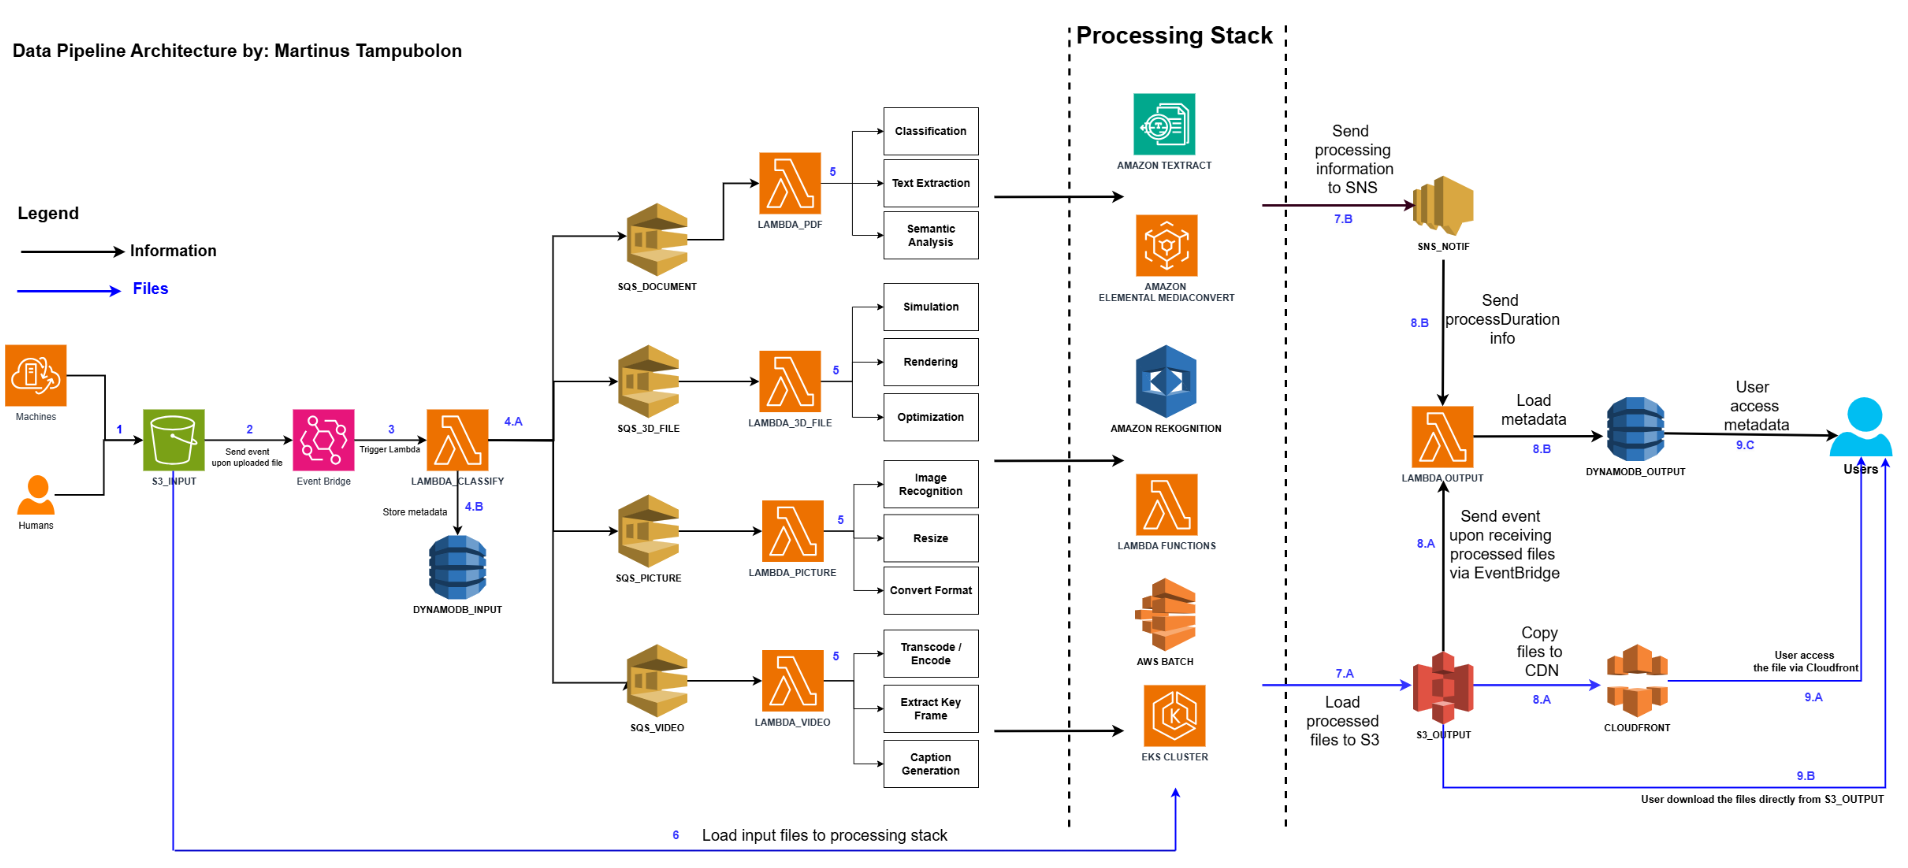
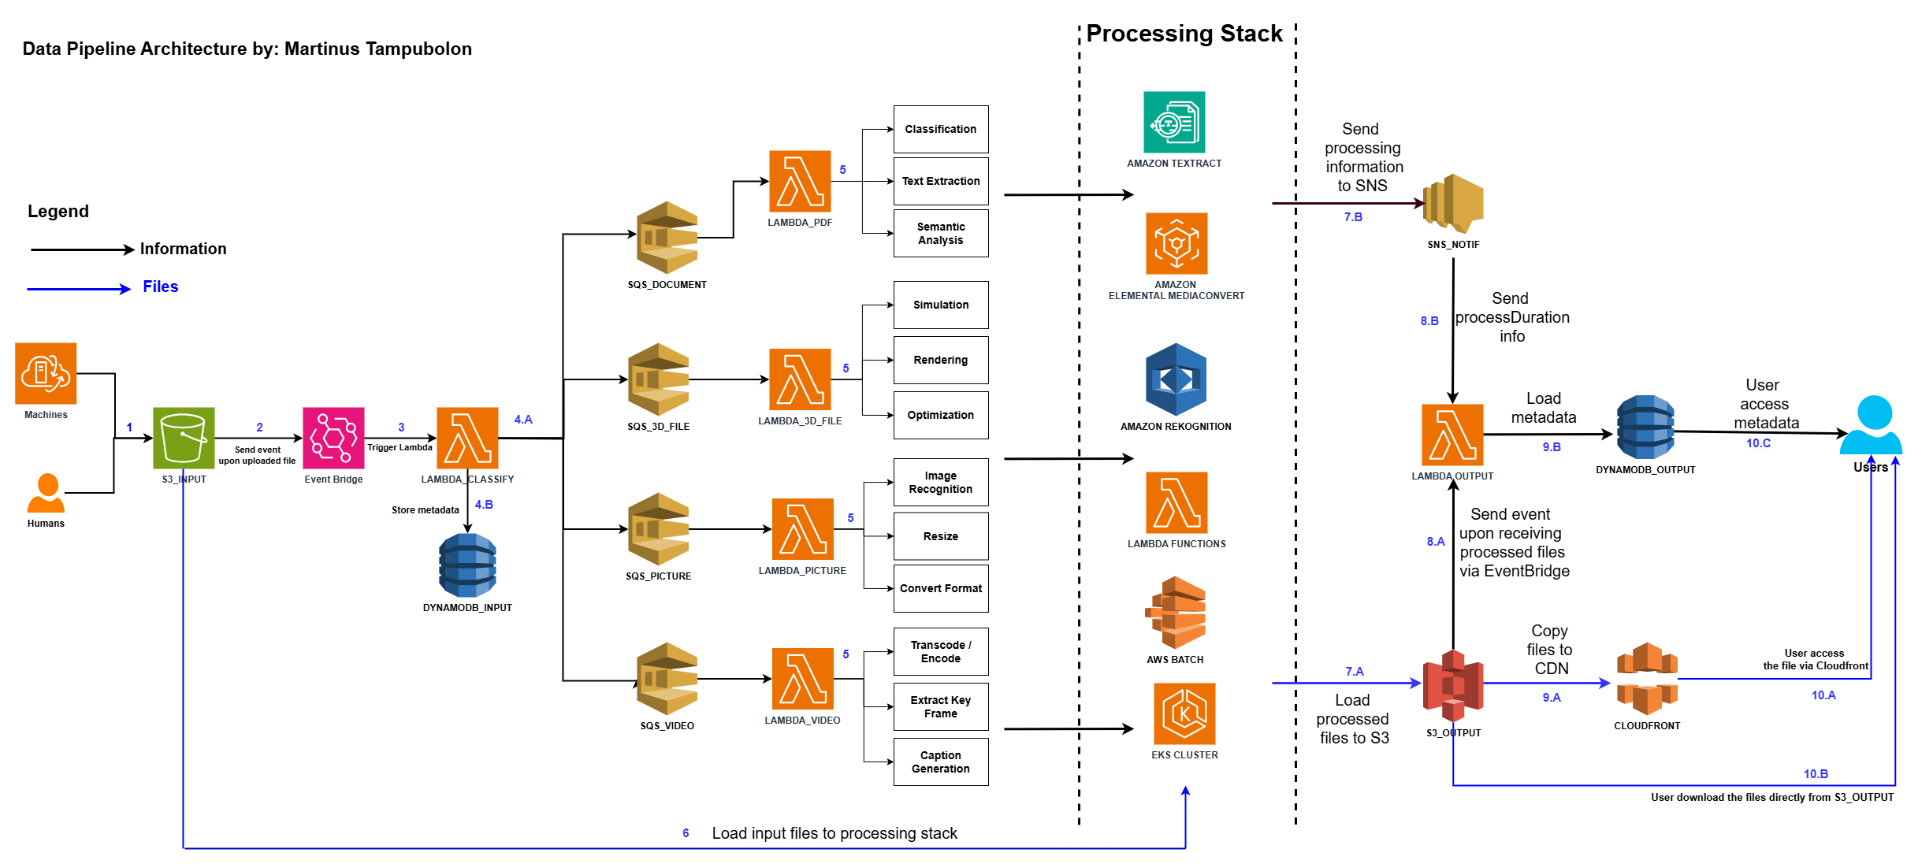
Update architecture diagram

diff --git a/README.md b/README.md
@@ -3,24 +3,21 @@ Data Pipeline on AWS
 
 ![Architecture Diagram](/Pictures/image.png)
 
-My architecture can be also see here: 
-[Architecture Diagram](https://viewer.diagrams.net/index.html?tags=%7B%7D&lightbox=1&highlight=0000ff&edit=https%3A%2F%2Fapp.diagrams.net%2F%23G1yeDgWl9MzScVbPJ5gEhNIkLw7Y2a9--B%23%257B%2522pageId%2522%253A%2522_bkS12qFeahq00A4bDJi%2522%257D&layers=1&nav=1&title=Jitera.drawio#R%3Cmxfile%3E%3Cdiagram%20name%3D%22Page-1%22%20id%3D%22_bkS12qFeahq00A4bDJi%22%3E7V1Zd%2BK4tv41Weueh7BsyxOPTKlKV6YTUqer6iXLYJG4C2zamAz166%2FkCVuSB0AeSJzTZxXIQgjtb2%2FtSVtnYLR6%2B%2BIa6%2Bdrx4TLM0kw387A%2BEySRB3I6B%2Fc8h606FLY8ORaZthp1zC1%2FsCwUQhbt5YJN6mOnuMsPWudbpw7tg3nXqrNcF3nNd1t4SzT37o2niDVMJ0bS7r1b8v0noNWCQB19%2BArtJ6eo69WlfAHroyod%2FhTNs%2BG6bwmmsDkDIxcx%2FGCV6u3EVzi1YsWJvjcRcbTeGYutL0yHxgrP%2B%2BfL9QZ%2FPLn68t2Yr9v%2Ftydh6O8GMtt%2BIvPJHWJxhua1gt6%2BYRfRk2zqGEKHi9v7r4%2FRA%2FQl87IzqgtNYS%2FBN57tLCb39Cb4wUS0NO1Y9meTylliP5Dv2MU%2FF9BXUe4pScpjEZWm0Y3inQ39I%2FI%2BgaykdWm0Y0i3Q2%2Fi2adbmS1aQo9Y%2FLTIuPTIvFp9B8YOltvadlwFPMEXuOFY3sjZ%2Bm4%2FvoD9L8LjJPhwlouE%2B3aYCCKKmrfeK7zGyaeLPw%2FjAxj8wzNcNgX6HoW4pcrYwaXd87G8izHRs9mjuc5q0SHwdJ6wg88Z41ajfDdHIEXoi8YPnurJXovhjMNJYEoRe9D5OCvNDbr4GctrDc8jyHirDV%2BuHp7wlKoZ7xu5J4LN87WncPLOZ7PEL0NXqV7bUAMziQnRWyB5g7fEk0hZ32Bzgp67jvqEku6kMtDOadEXP%2B6kxqaHjQ9J%2BRF1GaEcuopHnnHyehFyMx7MLakUSwHTSTawreO6z07T45tLCe71qHrbG0zJu2uz5WDieYT5x%2Foee8hdYyt56RJB98s70fi9U88FIJs8G78Fo7sv3lPvLmDroV%2BN0aC3xaAL5K4Uh6NPMN9gl7eSkhBR%2Fzzc0npwqXhWS9pyc8iTPjROyy1dhDQxDQEQASBaIhgpuGnkoKaGEjRCCwp%2FfRAAbCpgQaua7wnuoVSNXvCAvE9qpA7L7I%2FEFL90YtgBjvQxot7OI5BtHueJI4RWN33H8k3iZHw291Q%2Frv35LsjmCJASN6ylmUepR7mUQn5qevlmOdozIe8VRbzuqrl9%2B%2FLef0r4pGDlLirwfVwPHgcXQ2m08uLn50u9%2BF0uckY7Uk7yfHRdbmlsZqZBh99TpFbps%2BpFI9PXqAveYbIcEbCOYfj3Y6fPwY%2Fa6KiDT8NP0MM8FmAbi5MDUjFummmFkGn3Fag3Ja1DNVKdNt9VVKg7KeSFvSvRsUUZWr%2FmULbxKsXbEPU7rNdI46WhO166RgYrpKApBksuQNhkvhSK41cSjKRAmxlmWbAJHBj%2FTFmsVxK72JjJrxyWTR0MIdDnsVe3fLS51zoCYIupWgXQfVI6ymyAMJRSceDs1hsoHdGSisesFAaEWBtFTxqScEDeAue43YhWrd8cK2nJ7REknAVKNUtZlCFJ4MCgWBQ%2BTgGDYfRamNIjaIlZfiPf94Mrm%2FHw%2BIYDg9jgqnwVq2mMrRO0DPfbWPlPJozWrOWJhoY6qgddTctuNPGbcfmpHwqclpIxx6vpPIp0cqnXhnb683K7p24%2FpmS1i33iEYc1hbh3acVM89xkaIloC8wTMOjhTdCrFed3MY034QmImWrhvyUZD9%2BLCYT9p0KlJ5CMZkYxWmSXAaEiugjScUCefrf6eP4dvT9enLzicTx5t8NLYjH%2FYEmi5UKYtJFLyk6LYjVCDhJkPTB8SD5cvk2nw%2BgPNYXv%2F7652X26%2B7b%2FXkMyXplcZb4JETbYfJUYgjUvvJj8t%2Bh%2FPLjrwm0vv17fjW%2B%2Fjvch5qSn1J28CTFn2D8eHF5Ncnlu45hq2FYPa05yaBOhmVjVm1Wd2qZ3Rsl9RXzek3h5L5EaAKakh4iI5zMywyTaHcZU6rcXY4evt9POhlStwxRpeZlSCMZWlzZXinL9nJNbK%2BS2RpyT%2B7v%2Fog4TtVCQCknBP53OZ7cdiKgbr1fF%2BsUAWyENKNGfPT4X%2BnkNu5%2B%2BANz0sQUMItz0tL9ZV0hkFhBAFBqxlvYQTWtULbE6whK6LeD68Gv2xvU6WHy4%2BF%2BMMpwbRGg6nKPUm2tyT0SxIGuj88%2BS%2B4RdpG7xtzLY%2B49TofIQEuJbDFy29eQecTUyE%2FKf1FKvDJ%2FZuQGKLRQqtEEqK1bFIg8d0kgAg9lD4mIAuinRwKgJyT%2BiLllnBk5QD1grt%2Bn1A5qwGVN%2FrKWoal%2FStKJFwprQFNNbhhOaNrXjhKFyEjZfS1Xw4i9%2BJ9R8lUfUZBKQjrCft0RBUkut3Hzgll2mBKrwSkAqv9unejBeZCJMUAdRHn9FvgLw%2BeZJ8NGS2OzsRZIO%2FeV9vyDYcHXZ1hzaaC%2FPlsenK4Nn%2FKvSNlOg5qHoi0SZBIjxTuZACIxEkBUDgkgeTK3FsI94MQeSZgEtsup004SQMO0y3bg86fdFK4MG1nE6EMDtBW8b6zNaVNPpU3ceqkHGgmwHa7GRVGyYmO1MWcgezqNGH91rDN36%2Bu4dT4ps6gO%2BnA%2FwHVcQL%2BEUzw8dJ8T8u384SfhD%2B%2FO1h%2BsKvTVOC07rgrHStSu1SEORIr12r2Jlc29iXwiLRGSoBF%2FSR3r3G%2FXOjdztLx%2BZaEsfQB3R9FxykKJ5LBQWchNEu3UhU5d%2BGzqAvtcV63qQpTb%2BeHFq152%2B5NaJV4byqxsMX0aqznAnk4z5UlbTJ92%2BfSieZdQT4iTcZ160qknn0s9kVLKiSw3r5wIpZn3bnxR9cmTjuc7nv%2FgPC9GR4sa43gpk%2BM3a8PmHKm2VttlmdSQ4KvbGqAGUeC5sQB1Tu0B%2FlS7h2i5Xct%2BOmmiyaBxomVH%2BfgT7XbtWSvrz%2BkzmyI0Trdsi4Y%2F3S5X%2BF4hSbiHc%2BfJtk6ffDqjjlK95KPrXFUpK%2F1PnTLFVAWwal%2FVm4CVbYfwpxnSgfFyoc9cOO7K8E6aehqjMnXNtKtzm3twDXszd0wsMvG0JWFiB29PmIZ641telL9WCw3DpGP0mW8QL8uFa6xOnIBa4wSkK%2FNWKECNdaCnCF%2BgDd3T1zn7ctP0k2khem3Mny0bbqjl6txknZvsrHk32cvqFTHh43zpbM1Hx3408A2qPNhT7kU12PLK%2BNXpNJPp7fHrdoU0EYo3C2maIFZJ8haWxUUAu7hAOoTAouefrQt7240%2FEgfakLaDwLIdZI1VG0mpTHaeVLY7zwORuWAtrk8d9Gu4ppEICEhJ%2BTWNyP68LzVhH%2B9qpOpueyHGOHdRD8SOO6THsnJIstrmAN8GvhO18Z4tpqmTJm96eUGKej1BSFew7wFBPoSGmRSj6jAXZpEEmixNiYQYVxgKcNR27Ll%2FoKS3eFEgt4eMo%2F5lhkoPVPFxayXb8ooNoajAlWqs8BZvzzbrtHlUKpwe289XE1z%2FfXCFvvV6Mr4cjG5v%2Fje5518Qvgvad9bIqVgjcAlXaArG8nEFTcuYhz5ePv4CmbjjU9Lo8%2Ba1GiRKict74qp695Nvt19uLh8ufRFUnHrXngKwLvwdB8WauImHInwLCsorpfMtsWv1%2B80I033apW51u8An2AV4pm5RzK9GN741JvWzI9s75fAb4nVhdPV9%2BjC5LyXuO9btWLcFrAt%2Fc3IfizJx7S0rOldvCdXs7Iay1YGAUBycY4xC979znTncbPzsPmHqGfPfBZG73NpBH%2FV%2BOBEoxNVfNISkCFa1OLlVMRNDR9j2PFQ%2Ffh6zTMIV%2Bg9r8lqphO9ZFOR%2BpPzv7bciByMvFiys78v1jlg26Er4tqY308eb24fLjNMhrbUtN3Yzl4uIWl8kTikj2veiY8KFhuWulbuMia4cL2Va3n5%2FyLwTuNMwOw2zfRomV%2BNQ6xNhyOiiv6aUTP34DDApS8mcoj0%2BJ3qRTu7K1CyOnsY60F3HWyrljDWD0hrP0fOy7IWz52Q%2Bix6tlzlKxVKk%2B1Up0vrxpzsygXDlGGYDfLGKr%2B%2FuMMjCICGq5T4Dg6yrvivL9uyzUuazzaq5X2V7vp8xRe3p%2BO%2Fi4iTMLCHDgbO3jUXu0tRIFScH9PfLOOFFaEEQB6dIaEkVDya0kj9S1YRmaV8dR8ciWNUIm%2Fdgnsa%2B0GZ5mhV7P4rUWXl%2Bsn52dKLfSfjVdDV9HYuiyD0gJa7jPRgqgBy3XqiwAnYdVI6BikRc3KzoCg%2BoiLKkkOPWChUx2go7rFSGFTRwGiuAE1iosE%2FlYGFFgzqw8ARLX9IrESx9Sa8ZKyyHRzZWQsO7pF4qsfRSfHHbSeilkpjWO3aXbu6tahAjKf26qbyfqsGJyqPRKVCZvOnrYCqLcr9oqKrpLHKX%2FB%2BJoUsQ6Ahal7yBlx%2BtpWpp7Z9SCu%2BH3N0J%2BTPa2PncSUodTUqeLvty%2BTafD6A81he%2F%2FvrnZfbr7tt9cE9mc7Yo6V4gqV4aQORIas0nk0TmzQGctMRe%2BkRbxUpi4XG2KHWhLXKIpD0gs3vK%2BzAIHymo%2BTpRUcw%2Ba8IpsCzAF%2BgnGTYdYN6u%2FaomLpxD6yUogLjPlOqLOIeRcIgXb2Et4aY1MyOX7MUyUPcJJvDQtTB3dkHKMoFy9s0VzFC5SO4r%2FGq7Syxtk2uwXLDs9dbbwVjwHLyWySzlDZGlnFtL6KMCRNdJbZRRsyjeZZLwIPcLjuhg6adEvuC%2Bie6imgGX7xvoJsVcOi%2B9RBZiQ6VZBGE4ufCtqqpLswCqkqrMECE6AyIah4xSpiqfLT5iOg3%2BxgeWhoOH0dcTyyCeGX5WK1WLR9EVIJ8V5BBTdGVQP3u3kIFOxFO1qAxjLSdTs%2B22gmRx8LhH3nB7SL0BNJ0ngiLJoFo607niukRfU18znbMT6EoLeVC21CCW%2Bvg3zLE6kKOOF59cylR5%2BU%2Fae4ahQoOXyVeAR7hK2sINZrTvpE9XJz4K%2FbtSLjH2GYl7akUqD3s%2Fyz7Jd7jGo1C4EuaxmNk1%2Bl7YxYLGn3iMVvRRwSMCIp7PuA6ApS2Tfhp%2B0MnWhbgjBf%2BxkJLAaqnDotJewuqTIAsQDrnmkVWFGXYs1EAnlBiVTfW2QSf7XpnmoCP3Bh14aPCoZIYaQxtihTSqA0924f8mwVNCm%2F584FGIksqqRBeyqhc82TcONAcepYMOQ5MWZEA6IUQaPfXuWyUKE3ToaQd6iGo8qkz7pOvFTonaiR122oEdSvLISsPoKXNjboeelqCHSP8X6Kqt9WIn21BvrQtI7VxAjGC8LBByCYGtacHURlNe60x5pmhSCUeQzkjmqNUcy7mrli0pFo47h%2Ba5j4Zzw%2Fxnu%2FECzMSrFCEFN7pPs%2F%2FDxY%2FQy%2Bif%2FwSdfMQtjJW1fA%2B6foXLF4hJmngefn0wvLsylolnL4ZrGehfRH%2FD2yKqF%2FSbG2tGlyX0EJ7ON2tjjpOOqOeOu37G9%2F0EKU1BG0bneQhI3BxjMnpm2aYPCPwwyoIKnnj4GkO0hCtyzRD9ndf017w6rpmeWDzW%2BSuc%2FbbQcHjMAL%2FnIYJS%2Ffwr1fwx4lUML1ZDr2fG%2FPeTn%2BZ7TlBMUsSAWMkX%2F0n8DBPOnaAWz7n3bM1%2F2zhI63%2FcwlW7o8Uj%2BybImdsvMZ1kv6wtLZRqJQXUYZguFpCR4OPhhip1Fd6Rkog45SCptJLEkkSVhVilNpr2erePsfNT9PQBe1WjtaB697E2Gvd655Nmo4dwSoN%2B0%2BjJLrBeFixFtcGyEpg4JyuVOTmw%2F1yOOxfA5wek8sSnJcLM%2B19p9GEZLva97ntvMY9qfEyO43Dx%2B4lUrQyOE7XzkA4uYIlsnVYV1Qz4O3Vzzcc6L3QkKxNhFVGm84JFlgOKy2khNi%2BXyPYf%2F7wZXN%2BOh6eZBm6%2B28bKeTRnBF1L30Z1XD6sAIgiE8wDHppEE13POcF6HM2zXdoxQUdXt9%2FHF%2Fe3N6dG7vkuaZt9ykOtl96ssHvNuf8g2094tMQfOev3FuzXSQWz8cmMxjcF39ppuMltsU8cGdCiwgAJlunXquCq1OLXenN0uk5D%2FGz%2FOg2scjBZd0pTNT8KLpnO3VoKaz%2BE51BpUHC%2FVZo9zwrrgfZE%2BSxVjk3lcPc32ItOhy9%2FXTW8CJZXyCp%2F6RFLF96QCO%2BUUl2RPzauKixUHxyra3x3i4%2F1tcPkJFfkw9fVP049jYtRRLlZLG8Sq65%2BZZttFJRqbLPV9fR22xMkDgJbyt2EOW659e24%2FkfRlmi8JzqE6M4U9VRVpbgkW6YQB30x9xPoRTALrqJbPr5syt5HpE3n1V4GJVV254%2BxHWNaLrKjl3ihkS278r3mue6Xky%2B0cqTVrWWArLDSSmVxKbmEl2XfAEsXE6%2FKBKXuJwAML12tcU25jbmBXVS8HH4URsp7vehp4zm%2Ffid92DUztOIQb73oaeNBv34ne9joUYli9Y2jJzcbsMtL7vKSu7zkHRyL85L7vREHwVd9XrIkkVVWlHKSqLK85CisXt8NbyZcGNvljg7FLp7GfPBEHqdEEKF0yXSFvCaOGqpip7vGspQqpfIhrrzG6EyUIj%2F4Xk5FIulc3SV%2BbDpn2zRHZ6jmKyh0%2F0tm9h3LIVfZYUuWQE%2FDmINMF%2FV%2BmuaM87isan6VKZdatmmSt2fTdfhqBMsFUe39A8KEuIgLKGLDMNnXBilUBYvhImWdIoBPQVZzI7ZrLfQn3F%2BSQie21kp%2B5iWeFZM%2FK%2Fgz9qPRwp21hjhHEr0cuHNMlDk2MbHRFFqr1wYiob3F8Z8HY7XezpAgsz80bOQema%2FBMBhYqV8HAAe9dR1MmJ1KgrNGrx0T4h7%2FDw%3D%3D%3C%2Fdiagram%3E%3C%2Fmxfile%3E#%7B%22pageId%22%3A%22_bkS12qFeahq00A4bDJi%22%7D)
+The architecture can be also see here: 
+[Architecture Diagram](https://viewer.diagrams.net/?tags=%7B%7D&lightbox=1&highlight=0000ff&edit=_blank&layers=1&nav=1&title=Jitera.drawio#R%3Cmxfile%3E%3Cdiagram%20name%3D%22Page-1%22%20id%3D%22_bkS12qFeahq00A4bDJi%22%3E7V1Zc6O4Fv41qbrzEBdIbH70lu5MZ5ssM939ksIGJ0zb4ME4S%2F%2F6K7HYIATIRixOyJ1bbQtZlnW%2Bc3Q2HZ3A0fLti6uvni8dw1ycAMF4O4HjEwBEDUroH9zyHrRoIGx4ci0j7LRruLN%2Bm2GjELZuLMNcJzp6jrPwrFWycebYtjnzEm266zqvyW5zZ5H81pX%2BZKYa7mb6It36j2V4z0ErgFDZPfhqWk%2FP0VcrcvgDl3rUO%2Fwp62fdcF5jTXByAkeu43jBq%2BXbyFzg1YsWJvjcWcbT7cxc0%2FZYPjCWf9w%2BnylT88vvry%2Bbif2%2B%2Fn1zGo7yoi824S8%2BAcoCjTc0rBf08gm%2FjJqmUcMdfDy%2Funm4jx6gL52SnVFbYgh%2FCbz3aGHXv0xvhhdIQE9XjmV7PqXkIfoP%2FY5R8H8ZdR3hlh6QKY20NjXdKKa7oX9E2jeQjbQ2Nd0oprvhd9Gsk420NlVOz5j8tEj5tEh8Gv0Hh87GW1i2OdryBF7juWN7I2fhuP76Q%2FS%2FM4yT4dxaLGLt6mAgigpqX3uu88uMPZn7fxgZ%2BvrZNMJhX0zXsxC%2FXOhTc3HjrC3Pcmz0bOp4nrOMdRgsrCf8wHNWqFUP380QeE30BcNnb7lA78VwpqEkEEH0PkQO%2Fkp9vQp%2B1tx6w%2FMYIs5a4YfLtycshXr661rqueba2bgz83yG5zNEb4NXyV5ruAVnnJMitkBzN99iTSFnfTGdpem576jLVtKFXB7KOTni%2Bted1FC1oOk5Ji%2BiNj2UU0%2FbkXecjF6EzLwHYwM1xXKmgURb%2BNZxvWfnybH1xWTXOnSdjW1sSbvrc%2BFgovnE%2Bdf0vPeQOvrGc5KkM98s73vs9Q88FIJs8G78Fo7sv3mPvbkxXQv9bowEvy0AXyRxQR6NPN19Mr28lQBBR%2Fzzc0npmgvds16Skp9GmPCjN1hq7SCgikkIwAgC0RDBTMNPxQU1MZCsEliS%2B8mBAmCnBhq4rv4e6xZK1ewJC8T3KELuvMj%2BUEj0Ry%2BCGexAu13cw3EMo93zKHGMwOq%2Bf4%2B%2FiY2E3%2B6G8t%2B9x9%2BVYIoAIXnLyso8cj3MoxDyU9PYmKc05kPeYsW8pqj5%2FftSXv%2BKeOQgJe5icDkcDx5HF4O7u%2FOzH50u9%2BF0uckY7Uk7yfHRdbmFvpwaOh99TpZaps8pmTy%2B5dbJi%2BmLoiGypJG0zuFnmlhwO6b%2FGEyvirI6%2FDRMb2LQTwPEc%2BF8SGrfTXO%2BCDsNuAINmNV8VCpRgPfVW6G8n95a0L8aPVSUijepO9M28HIGe9V%2BW1TUsFkhOQCEzWrh6BjkQEAyMHfDK9jLMHF9%2BZfkgZSMI0Xh0jKMgN3MtfVbn24lXHI%2FHFOBmsvsoT87HPJk60Rml2OnQk8QNJBAQQT6ksZaZHCEo5J%2BDmc%2BX5veCSn3eABMbkQUtlWEKYwiDPIWYeX2MwZV9t61np7QmgHhIlDqqbzdXi6WeXIxFAgulspxcTiMWhvXqsUEH%2F%2B4Glxej4fFcSUetgtVv65aK6YoubBnvNv60nk0pmlFHkxUONRQO%2BpuWOZO%2Bbcdm5OuK0tJSb71wsV1XZDWdbXKZIPWrIDfyfQfCZHeci9txGFtkfB9Bj3Qc1yksgnoG3VD99gkPIK1V51wx8BYh2Zryn4OmS7Oo%2Fz4UCJsTgXKPTnFiWIUYIqzIhQqIiIADET86%2B5xfD16uJxcfSKZvf5vnZbW4%2F5AlcRKpTUZWwCylpbWSgScOEj6sDxIvpy%2FzWYDUxpr859%2F%2Fvsy%2FXnz7fZ0C8l6BXaWjCXk32FCF1Ckbl%2F%2BPvlrKL18%2F3NiWt%2F%2BO70YX%2F4TblZNCVmQHfVJ8CccP56dX0xy%2Ba5j2GoYVkuqVxKsk2HpmFWaVbBaZkFH2YjFvF5THLwPCE1AlZNDZMTBedlqgMWFh6TKzfno%2FuF20smQumWIApqXIY2klnFle5mV7aWa2F4h00ykntTf%2FRGxpaqFgMwmBP4%2BH0%2BuOxFQt96viXWKADpCmlEjPnpMkjkrj7tH%2F8BkOjEBzOJkumR%2FSZMJJFYQlATNuBQ7qCYVypa4JiGDfju4HPy8vkKd7iff728HowzXFgGqLh8q0daafChBHGja%2BOSz5ENhF7mrz7w85t7jWIsE1YTIFiPffg3ZUFSN%2FKj8F0zilfozIzdAoYVSjSaQ2rpFgUjQBwIReGA93SIKsJ8cCcKeEPsj5pZx2OUA9YC6fp9SO6gBlzX5y1qGpv4xSSdeKKwBTTW5YTihaV87ShQiI2X3tVwNI%2Frif0bJV31EATBCOsJ%2B3REFILFt3Lxglh2mxGpwAoDKfxsnenAaZGIMUAdRWr0F%2FsLweWZi8Gihr9fWHGnnvtKenxAcfH2GNZcE%2Buuz5Zl3K92n%2FCtStpOg5qFoiwSZxEjxjieAAEoCiMIhASRP5tZCuHuc2AOESWC7HDvtgAAbpl22A58%2F7e7MpW4jixh9aIC2gve1tT5u6ilpE7de6sFGAmyHq3FRlKzYWG3MGUifTiPGXx3rzN36KrfOR2UW1UEf7ofKygX0GZziYbWAnJBv5w8%2FCn94VxTgYFWhr2zTsrfl7GiJ2rU6xKGYYr12b2KsuTeRT6QlQhI24i%2BpY5377VrnZo67168ssNIHcncUlVMWGJLDQmUhN0m0Uxc6deGzqQv0c121qgtRbueHF68a6%2FYHWiVeG8qsbDF9GqteQJ9OM3VVW0yfdvn0onkzqCfEybhOPenUk8%2BlnoCEciJJzSsnAjPz3ozPugqHHc93PF%2BK58XoaFFjHA8yOX690m3OkWpruVmwpIYEX93WADWMAs%2BNBahzag%2Fwp9qtiZbbteynoyaaBBsnWnaUjz%2FRrleetbR%2BHz%2BzyULjdMu2aPjT7XyJL0QCwq05c55s6%2FjJp1HqKNVLvuxiWFXISv9Tx0wxRYa02lf1JmBl2yH8aYZ0YLxc6DNnjrvUc6vitp56KqVads20q3Obu3d1ez1zDCwy8bSBMLGDt0dMQ63xLS%2FKX6uFhmHSMfrMNxMvy5mrL4%2BcgGrjBMyu8VuBANVXgZ4ifDFt0z1%2BnbMvNU0%2FiSEj8FKfPVu2mZHs3fnSOl9a%2B3xpL8tXxKmPs4WzMR4d%2B1HH98Py4GGpFxVqy6v1V6dnTWLI0%2Fm6WSL9hYmBCwkfoygjBgoL7CIUnp0hbUSgEf33xjV7m7U%2FEgcCklaIQLNCJJVWZUmuTAofVd48z6OVuYguLocd9Gu4OpIICUiB%2FOpIZH%2FeV7bQD4o1Ur%2B3vRCjnOCoB2LljvvRZD1JVtsY4AvRd6J2u7GLSeokyZtcXpigXk8QkgXze1CQDqFhJsVSFZ0L81ECnThNiZgYlymqdNRWtoIAlJN6gCiQ20NG0QCWoZIDVXxwW2a4pyUqlaXoS7zF29P1KmloMQXmt5b4xQRXkh9coG%2B9nIzPB6Prq78nt%2FxLy3fh%2F85kORaTxVyYSzQFffG4NA1Ln4XeYj6eB4m45hSo6ZPrtVotMsNdQdv6fLeTb9dfrs7vz30RVGzDtKeUrGv%2B2obXmrj4J0X4FpSml5kzN7GT9uFqhOl%2Bx31v6HaBbhdo3y7AMwksxfxKdMFcY1Kf4cKoyTfE68Lo4uHufnLb%2BZw71j0W1jV%2FcfIxixJxqS8tzldvMdbsPAnWOkNQKA7zUUZJ979xnZm5Xvt5gsKdp89%2BFcQAc6sQfdSb5kQoE5eIpSEEIljV4uRWxEwMlbDteah%2B%2FDxmmYQr9B%2FW5LVSCN%2BzKEj9SPnf229FDkZeUVhYKZjrlbR00DH4tu6u7h6vru%2FPM86ZtNa2XNvNXFMiqn2ROO%2BMaN%2BLDhwXGpa7Vu4yJroGncm0vH64z7yCuNMwOw2zfRomV%2BNQ7RNhyOjKwKaUTK18LhnIUjLv0B6fE71Ipollahalp7EKdNfxJpW8RpsBs8ZTel6WPXf2nMxn0aM1lkNZNEW6X5UirZU%2FJ5IJhAtHNxrgi2X6cvAOgzEMEqJa6lMwSLs0vLK80T4tbzTbrJr59bpn%2BxlTqT0d%2F52dHYWZJWQ4cPa2schdOjVSxckB%2Ff0yTngRWhDEwTESGijiwYSW80eqmtA07avj6K0IVlTC5j2Yp7EvtFmepsXeS5E6K89P0k5KJ%2FodhV9NU5IXu8iy1IMgdrHvwVCB5Lj1QoUWsOugUgYqgLgCWtZkHlARJSCT49YKFTHaCjusVIYVNHASK5ATWFJhn8rBQosGdWDhCZY%2B0CoRLH2g1YwVmsMjGyuh4c2olwKaXoqvgDsKvRSISb1jd33n3qoGMZLcr5vK%2B6kanKg8Gh0Dlck7ww6msij1i4aqms4id8n%2FkRiagUAlaM14ly8%2FWoNqae2fUgpvmtzdLvkj2tj53G6aOpoUP1325fxtNhuY0lib%2F%2Fzz35fpz5tvt8GNm83ZoqR7gaQ6M4DIkZSaTyaJ1DsIOGmJveSJtoqVxMLjbFHqQlvkEEl7SGb3sPswCB8prPliUlHMPmvCKbAsmC%2Bmn2TYdIB5s%2FLro7jmzLReglKK%2B0ypvohzGAk38eLNrUWiukizMyOX7MXSUfcJJvDQtTB3dkFKlkA5%2FQ4MaqhcJPcVflXiAU3b5BosFyx7tfF2MBY8B69lPEt5TWQp51Yl%2BqgA0TRSG6VUP9ruMnF4kPsFR3TQ9FMiX3DfRHdRyYDLw9p042IumZfe3tIsgjCcnPlWVdWlWWCqJqtEESEaBSIqh4xSqiqfLT62dBr8gw8sDQf3o69HlkE81f2s1lQtHlmToXRSkEOcoiuF%2Btm7hQQ1Ip6qRgUdazmZmm23FSSLw8c98obbQ%2Bo1TNN5IshAgtXSOZ0rroH0hfc10zk7gY5ZyEPWooVY6uPfMMPqQI46XnxyKVPl5T9p79kMFRq8TL4CPMKl1OZuMKN9J328OnEp9O9KuWyxT0ncUypSeej7WfZJvsM1HjmFK2G2FTO7Rt8LO5%2Bn8SeW0Yo%2BKnhESMTzKRcL0LRl0k%2FDDzrZuhB3pOA%2FGlJiWGU6LAr2ElafBFmQcMg1j6wqzLCyUIOdUKKUP9XaBp3sG2qag47UG3TgSYNHITPUKNoQLaRRHXgYql83AB4GbfrzgUcm6i4rIF3Iql7wMNRdrh08cgcdiiYtSJB0Qohp9NS7bzEUJujQ0w70ENV4FCntk64XOwy1EzvstAM7KckjyQ2jh%2BXu3Q49LUEPkf4vpKu21oudbEO9tS4gpXMBUYLxkkDIJQS2pgVTG015tTPlqaJJIRxBGiWZo1ZzLOfWW7qkmDvuzDROfTSc6sa%2Fm7UXYGa7ShFScKP7NP0fLn6EXkb%2F%2FBF08hE315fW4j3o%2BtVcvJiYpLHn4dcHw7tLfRF79qK7lo7%2BRfTXvQ2iekG%2Fmb6idFmYHsLT6Xqlz3DSUeq5466e8R1AQUpT0IbReRoCEjdvMRk9s2zDBwR%2BGGVBBU88fCEiWsIluWaI%2Fs5r8mteHddITmw71umrOf1loeHwmAF%2BT0MEJfr5l7P5Y2xXMbyiDb2e6rNfT36a7ylBMSCLAbHiL%2F6I%2FQzDnDlBLZ5T79ma%2FbJxkNb%2FuIWrdkeLR%2FaNkTO3X2w68X5ZW1oo1RgF1GGYLhaQkeDj4YZiulSvpCQiTjkAJa0k0SRRZSFW0EbTXuv2MXp%2BipY8YK%2BoaS2o3n2sjca91vmk6eghnNKw3zR6sguss4KlqDZYVgIT52QllpMD%2B8%2Bl3LkAPj8gkSd%2BxxBm3v9Kow%2FLcFvf6743IPOoxkflOA5XyB9J1crgOFE7D%2BngApbI1mlVUc2AvxM313ys80IlWZkIq4hSOi9YpDmguJwWovMyQ7b%2F%2BMfV4PJ6PDzONHDj3daXzqMxJejKfBtVuXxYARJFJqgHPFSQJrqWc4K1HM2zXdpbgo4urh%2FGZ7fXV8dG7tkuaZt%2BykOpl960sHvNuf8w209YWuKPnNV7C%2FbruILZ%2BGRG46uCb%2B003Pi22CeODKhRYYAYy%2FRrVXCV1OLXenN0sk7D9tn%2BdRpo5WCy7pRO1fwouGQ6d2sprP0QnkNNg4L7rdL0eVZYD7QnSieJcmwKh7u%2F4V50Onz566rhRbC8TFb5S47IXHgDEN4puboif3RcVVioPjhW1%2Fjutj3W1w6Tk1yRD19Xv5x6ui1GEeVm0bxJtLr6lW22UVCqsc1W05LbbU8AHAQ2yN2EOW659e24%2FkfRlqi%2FxzqE6M4U9amqStuSbJlCHPbF3E%2BgF8EsuIpuqXzZlL2PSBvOq70ISqrszh9jO8awXGRHL%2FBCI1t26XvNc90vR19opaTVrWaArLDSSmVxKYnBy7JvgKV0VLPfxcTpJmjqfgJI8dLVGteU2pgb2O%2Bi4kz4kSkp7%2FWip43n%2FEShEz%2F0ohkqKX7SuxetZkZ18GnjST8En076UOFDlsFvHD65%2BYBdZnKXmdxlJu%2FgWJyZjCTfiIPkqz41GQCy0IqcFkW1piZHkfX6LnkzzLm%2BWezoUOzlacwNT6RyAoIIzFXTZfKmuNRQFfvdVZqxVCmVD%2FHmNUZnohr5wVdzyoCkc3X3%2BNHpnG3WlE5SzddQ0v3PqQl4NJ9cZectaQI9CWMOMl3U%2BkmaU47k1qpdqtnGSd6mnS7FVyNYzoiC7x8QJoQRAmWxYZjsa4QU6oLFcAFZBwnMpyCxuRHjtRb6Ex4wIKdzW2slP%2FUez4rJnxX%2FGfsBaeHGWpk4TRK9HLgzTJQZtjGx1RSaq5c6IqG9wSGge3252kyRILM%2FNGykHpmyQTEYaNlfBwAHvXUdTJidSoITRy8dw8Q9%2Fg8%3D%3C%2Fdiagram%3E%3C%2Fmxfile%3E)
 
 
 
 ## Data Pipeline Architecture Workflow
 
-1. Human users or machines upload media files to the S3 bucket `S3_INPUT`.
-
-2.  Once a file upload is complete, an event is triggered.
-
-3. Event Processing
+**1. Human users or machines upload media files to the S3 bucket `S3_INPUT`.**
+**2.  Once a file upload is complete, an event is triggered.**
+**3. Event Processing**
    - EventBridge routes the event to the Lambda function `LAMBDA_CLASSIFY`.
    - `LAMBDA_CLASSIFY` determines the file type (e.g., document, 3D file, image, or video) and processes the event data to:
      - Forward the event to the appropriate SQS queue.
      - Generate metadata for the uploaded file.
-
-4. Queue and Metadata Handling
+**4. Queue and Metadata Handling**
    - Step 4.A:  
      `LAMBDA_CLASSIFY` forwards the event data to the relevant SQS queue:  
        - Document files → `SQS_DOCUMENT`  
@@ -29,8 +26,7 @@ My architecture can be also see here:
        - Video files → `SQS_VIDEO`
    - Step 4.B:  
      Metadata for the uploaded file is sent to DynamoDB `DYNAMODB_INPUT`. This step runs in parallel with 4.A.
-
-5. Job Queue Processing  
+**5. Job Queue Processing**
    - Files in the SQS queues are processed based on their `processingOption`, which defines the required actions for the uploaded file.  
      Examples:  
      - Document files → Classification, Text Extraction, Semantic Analysis  
@@ -39,34 +35,29 @@ My architecture can be also see here:
      - Video files → Transcode / Encode, Extract Key Frame, Caption Generation
    - The `processingOption` is an input provided by the user during file upload (Step 1).
    - `LAMBDA_CLASSIFY` forwards this information to the appropriate processing stack along with the S3 file path (`S3_INPUT`). Procesing stack use the S3 file path to download the input file.
-
-6. File Processing  
+**6. File Processing**  
    - The processing stack downloads files from `S3_INPUT` and processes them using AWS services such as:  
      - **Amazon Textract** → Text Extraction  
      - **Amazon Rekognition** → Image Recognition  
      - **Elemental MediaConvert** → Video Transcoding  
      - **Lambda Functions** → Custom processing tasks (e.g., extracting key frames from videos)
      - **AWS Batch & EKS Cluster** → For high usage and intensive process and custom use case, AWS batch for orchestrate the batch and EKS cluster for running the workload.
-
-7. Output Handling  
+**7. Output Handling**  
    - Step 7.A:  
      Processed files are uploaded to the S3 bucket `S3_OUTPUT`.  
    - Step 7.B:  
      The processing stack sends process-related information (e.g., `processDuration`) to the SNS topic `SNS_NOTIF`. This step runs in parallel with 7.A.
-
-8. Output Metadata Generation  
+**8. Output Metadata Generation**  
    - Step 8.A:  
      When processed file uploaded to `S3_OUTPUT`, and event generated and triggers the Lambda function `LAMBDA_OUTPUT`, which generates metadata for the processed file.  
    - Step 8.B:  
      `SNS_NOTIF` sends `processDuration` data to `LAMBDA_OUTPUT` to enrich the metadata.
-
-9. File Distribution  
+**9. File Distribution**  
    - Step 9.A:  
      Files in `S3_OUTPUT` are copied to Amazon CloudFront (CDN) for global access.  
    - Step 9.B:  
      Metadata is sent to `DYNAMODB_OUTPUT`.
-
-10. User Access  
+**10. User Access** 
     - Step 10.A:  
       Users can access processed files via CloudFront.  
     - Step 10.B:  
@@ -232,8 +223,7 @@ For cost optimization, I propose several strategy:
 
 ### 5. **Sample IaC Project**
 I have created a sample Infrastructure-as-Code (IaC) project to demonstrate my ability to meet the infrastructure requirements. 
-- **Repository URL:** [https://github.com/tampubolon/data-pipeline](https://github.com/tampubolon/data-pipeline)]
-- **Invited Collaborators:** `@yota345` and `@tanvlt`
+- **Repository URL:** [https://github.com/tampubolon/data-pipeline](https://github.com/tampubolon/data-pipeline)
 
 ---
 
